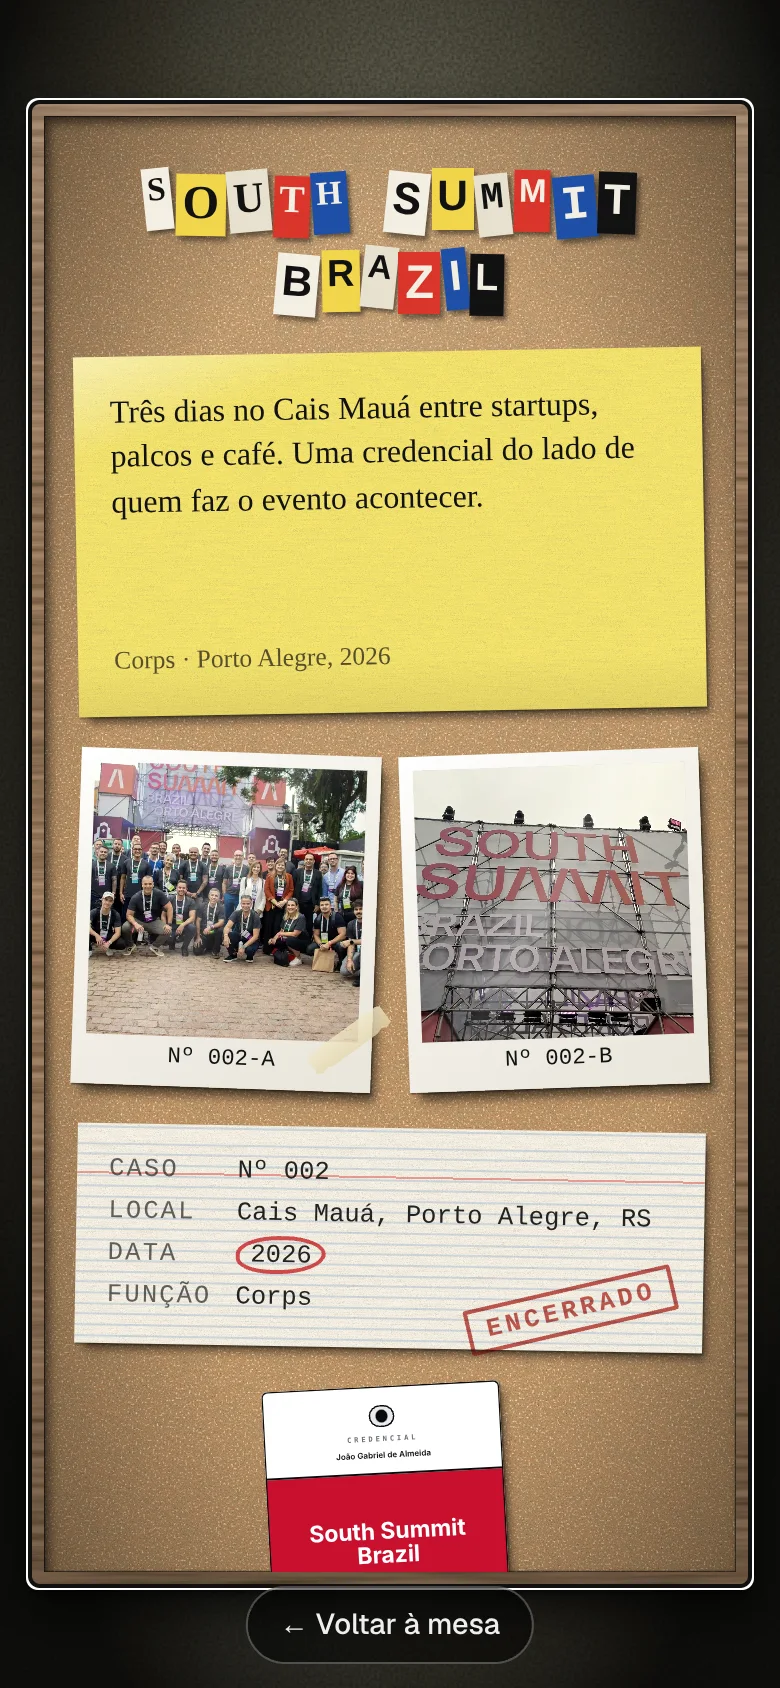
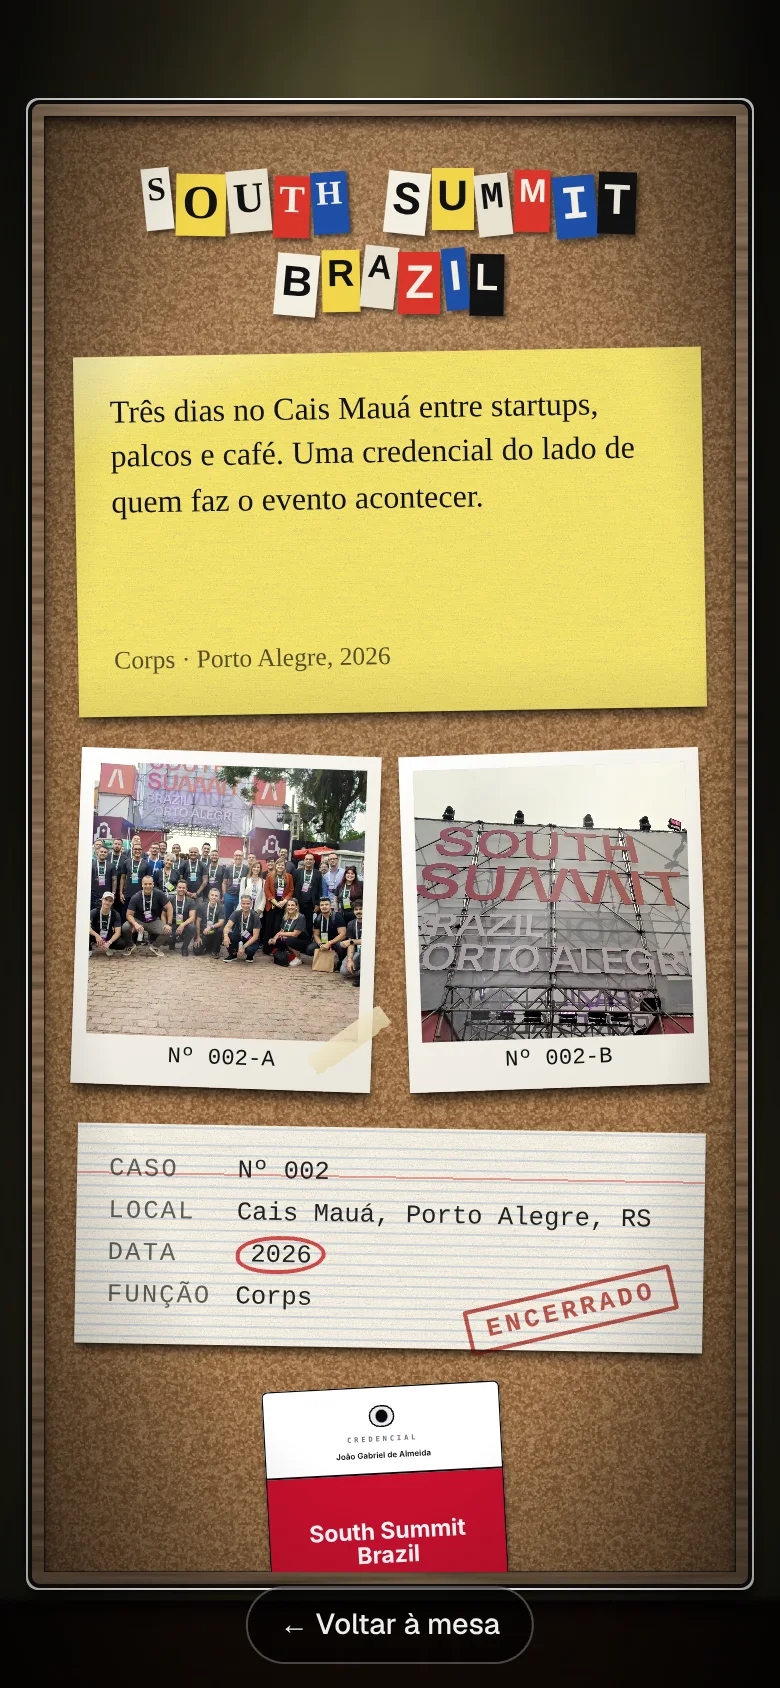
Light the evidence room like the desk: baked light maps and a pendant lamp
- scripts/bake-room.ts computes, once and on the CPU, the same recipe as the desk's light maps
  for each face of the room: aged plaster, walnut floorboards, skirting board, the pendant's
  pool of light with inverse-square falloff and a soft-edged cone, and occlusion where faces
  meet. The CSS box just shows those pictures (26 KB for the five faces).
- An enamel pendant lamp hangs over the board on its cord, with a faint beam of lit dust; a
  lens vignette over the view.
- Cork is pressed granules now (tileable Voronoi with flecks), in a darker stained frame whose
  top edge catches the lamp.
- One light over everything pinned up, so clippings share the cork's falloff; shadows fall
  straight down from the lamp.
- Removed the coffee ring: nobody puts a mug on a cork board.
- The earlier SVG-filter plaster/cork bakes are gone (scripts/textures, two WebPs).

Claude-Session: https://claude.ai/code/session_01DGPQJLkKaiTJNxGHKv36ow

Changed region(s): [[0.0308, 0.0, 0.9846, 1.0]]

diff --git a/components/ui/evidence-board.module.css b/components/ui/evidence-board.module.css
@@ -4,8 +4,6 @@
   position: fixed; inset: 0; width: 100vw; max-width: none; height: 100svh; max-height: none;
   margin: 0; padding: 0; border: 0; overflow: hidden; color: #111;
   background: #050505; perspective: 1000px;
-  /* Baked surfaces (scripts/bake-textures.ts): as inline SVG filters they were re-rasterized while the camera moved. */
-  --plaster: url(/textures/baked/plaster-grain.webp) 0 0 / 200px, url(/textures/baked/plaster-stains.webp) 0 0 / 100% 100% no-repeat;
   animation: fade 1.4s ease both;
 }
 .room::backdrop { background: transparent; }
@@ -21,29 +19,58 @@
 @keyframes dolly { from { transform: translateZ(-1600px) translateX(-20vw) rotateY(-28deg); } }
 @keyframes dolly-out { to { transform: translateZ(-1600px) translateX(-20vw) rotateY(-28deg); } }
 
-.wall, .floor, .ceiling, .side { position: absolute; left: -25vw; width: 150vw; }
+/* Each face of the box shows its light map (scripts/bake-room.ts): material, the pendant's pool of light, the dark
+   where faces meet. Baked once, so a camera move only re-composites pictures. */
+.wall, .floor, .ceiling, .side { position: absolute; left: -25vw; width: 150vw; background: 0 0 / 100% 100% no-repeat; }
 .wall {
   top: -25svh; height: 150svh; transform: translateZ(calc(-1 * var(--depth)));
   display: flex; align-items: center; justify-content: center;
-  /* Pendant lamp above the board: a warm pool that falls off into the corners. */
-  background: radial-gradient(ellipse 55% 50% at 50% 40%, #ffe3b02e, #ffe3b00f 40%, #0000 60%), radial-gradient(ellipse at 50% 42%, #0000 30%, #0006 58%, #000d 85%), var(--plaster), #767461;
+  background-image: url(/textures/baked/room-wall.webp);
 }
 .floor {
   top: 125svh; height: var(--depth); transform-origin: top; transform: translateZ(calc(-1 * var(--depth))) rotateX(90deg);
-  background: linear-gradient(#0008, #000d), repeating-linear-gradient(90deg, #0000 0 11vw, #0c0603 11vw calc(11vw + 3px)),
-    repeating-linear-gradient(90deg, #0000 0 calc(11vw + 3px), #0003 0 calc(22vw + 6px)), url(/textures/baked/walnut.webp) 0 0 / 60vw auto;
+  background-image: url(/textures/baked/room-floor.webp);
 }
 .ceiling {
   top: calc(-25svh - var(--depth)); height: var(--depth); transform-origin: bottom;
   transform: translateZ(calc(-1 * var(--depth))) rotateX(-90deg);
-  background: radial-gradient(circle at 50% 70%, #fff6d8 0 3%, #fff6d833 5%, #0000 9%), radial-gradient(circle at 50% 70%, #0000, #000c 60%), var(--plaster), #2a2a25;
+  background-image: url(/textures/baked/room-ceiling.webp);
 }
-.side {
-  top: -25svh; width: var(--depth); height: 150svh;
-  background: linear-gradient(90deg, #000e, #0007), var(--plaster), #3a3a33;
-}
+/* The left face runs front→back on screen, the right one is flipped by its own transform: the left gets the mirror. */
+.side { top: -25svh; width: var(--depth); height: 150svh; background-image: url(/textures/baked/room-side-left.webp); }
+.side[data-side="right"] { background-image: url(/textures/baked/room-side.webp); }
 .side[data-side="left"] { left: calc(-25vw - var(--depth)); transform-origin: right; transform: translateZ(calc(-1 * var(--depth))) rotateY(90deg); }
 .side[data-side="right"] { left: 125vw; transform-origin: left; transform: translateZ(calc(-1 * var(--depth))) rotateY(-90deg) scaleX(-1); }
+
+/* Enamel pendant lamp hanging over the board (the light the room's maps were baked with), and the faint beam of
+   lit dust under it, leaning back towards the wall. */
+.lamp {
+  position: absolute; left: 50vw; top: 0; width: 240px; height: 120px; transform-style: preserve-3d;
+  transform: translate3d(-50%, -160px, -260px);
+}
+.lamp::before { /* cord up to the ceiling rose */
+  content: ""; position: absolute; left: calc(50% - 1.5px); bottom: 100%; width: 3px; height: 600px;
+  background: linear-gradient(90deg, #050505, #3a3a36 45%, #0a0a0a);
+}
+.shade {
+  position: absolute; inset: 0; border-radius: 50% 50% 8% 8% / 92% 92% 10% 10%;
+  background: radial-gradient(ellipse 60% 70% at 32% 30%, #6f8a76, #2c4234 45%, #121c16 85%);
+  box-shadow: inset 0 -8px 12px #000a, inset 0 3px 3px #ffffff1c;
+}
+.bulb { /* the shade's mouth, seen from below: white enamel inside, the bulb's glare in the middle */
+  position: absolute; left: 1.5%; right: 1.5%; bottom: -16px; height: 32px; border-radius: 50%;
+  background: radial-gradient(ellipse 30% 46% at 50% 42%, #fffef4, #fff3cf 45%, #f0dcab 70%, #b9aa86);
+  box-shadow: 0 0 40px 14px #ffdc9a40, 0 0 120px 40px #ffd38a1c;
+}
+.beam {
+  position: absolute; left: 50%; top: calc(100% + 8px); width: 1500px; height: 1100px; translate: -50% 0;
+  transform-origin: top; transform: rotateX(34deg); pointer-events: none;
+  /* soft-edged cone from the shade's mouth, thinning out as it falls */
+  background: conic-gradient(from 152deg at 50% 0, #ffe8b800, #ffe8b81a 16deg, #ffe8b822 28deg, #ffe8b81a 40deg, #ffe8b800 56deg);
+  -webkit-mask: linear-gradient(#000, #0008 50%, #0000); mask: linear-gradient(#000, #0008 50%, #0000);
+}
+/* Lens vignette over the whole view. */
+.room::after { content: ""; position: fixed; inset: 0; pointer-events: none; background: radial-gradient(ellipse at 50% 45%, #0000 55%, #0007); }
 
 /* ponytail: landscape board; on portrait phones it just shrinks, give it a stacked layout if that's too small. */
 /* Cork in a walnut frame: the frame is the border box's background, the cork the padding box's. Lit from above. */
@@ -54,10 +81,17 @@
     radial-gradient(ellipse 80% 70% at 50% 15%, #fff4dc1c, #0000 70%) padding-box,
     radial-gradient(#0000 60%, #0006) padding-box,
     url(/textures/baked/cork.webp) 0 0 / 22cqi padding-box,
-    linear-gradient(#ffffff1a, #0000 30%, #0000 70%, #0004) border-box,
-    url(/textures/baked/walnut.webp) center / 120cqi auto border-box, #4a2e18;
-  box-shadow: 0 3cqi 6cqi #000b, 0 .6cqi 1cqi #0008,
-    inset 0 0 0 .15cqi #0008, inset .6cqi .8cqi 1.4cqi #0009; /* the cork sits below the frame's lip */
+    linear-gradient(#ffffff24, #0000 12%, #0000 85%, #0007) border-box,
+    linear-gradient(#24130799, #24130799) border-box, /* stained darker than the bare walnut */
+    url(/textures/baked/walnut.webp) center / 120cqi auto border-box, #3a2312;
+  box-shadow: 0 2.4cqi 3cqi #000b, 0 .5cqi .8cqi #0009,
+    inset 0 0 0 .15cqi #0008, inset 0 1cqi 1.4cqi #000a, inset 0 -.2cqi .4cqi #ffffff0d, /* the cork sits below the frame's lip */
+    0 -.12cqi 0 #ffffff1f; /* the frame's top edge catching the lamp */
+}
+/* The lamp's light over everything pinned up, so paper and photos share the cork's falloff instead of glowing flat. */
+.board::after {
+  content: ""; position: absolute; inset: 0; z-index: 2; pointer-events: none;
+  background: radial-gradient(ellipse 80% 95% at 50% -5%, #fff1d014, #0000 45%, #0000004d 85%, #00000073);
 }
 
 .title {
@@ -73,7 +107,7 @@
   display: flex; flex-direction: column; justify-content: space-between;
   background: linear-gradient(160deg, #fff7 0, #fff0 18%), linear-gradient(#0000 85%, #0001), url(/textures/baked/paper.webp) 0 0 / 20cqi, #f7e66b; transform: rotate(-4deg);
   font: 1.45cqi/1.35 "Comic Sans MS", "Bradley Hand", cursive;
-  box-shadow: .15cqi .25cqi .3cqi #0006, 1cqi 1.6cqi 1.4cqi -.6cqi #0008; /* the free bottom edge curls off the cork */
+  box-shadow: 0 .25cqi .3cqi #0006, .2cqi 1.8cqi 1.4cqi -.6cqi #0008; /* the free bottom edge curls off the cork */
 }
 .note p { margin: 0; }
 .note small { font-size: 1.1cqi; opacity: .7; }
@@ -81,7 +115,7 @@
 .polaroid {
   position: absolute; width: 22%; margin: 0; padding: 1.1% 1.1% 0;
   background: linear-gradient(150deg, #fff 0, #f5f3ec 30%, #e9e5da), url(/textures/baked/paper.webp) 0 0 / 20cqi;
-  box-shadow: .15cqi .25cqi .3cqi #0007, 1.2cqi 1.8cqi 1.6cqi -.5cqi #0009; transform: rotate(5deg);
+  box-shadow: 0 .25cqi .3cqi #0007, .25cqi 2cqi 1.6cqi -.5cqi #0009; transform: rotate(5deg);
 }
 /* Gloss of the print, and the slight sheen of light along the top. */
 .polaroid::after {
@@ -102,20 +136,13 @@
 .threads { position: absolute; inset: 0; width: 100%; height: 100%; overflow: visible; pointer-events: none; }
 .threads path { fill: none; stroke: #b5161a; stroke-width: 2.6; stroke-linecap: round; vector-effect: non-scaling-stroke; }
 /* A path shadow instead of a drop-shadow filter: no filter pass when the camera dollies. */
-.threads .threadShadow { stroke: #0007; stroke-width: 3; transform: translate(.35px, .9px); }
+.threads .threadShadow { stroke: #0007; stroke-width: 3; transform: translate(.05px, 1.1px); }
 .threads .twist { stroke: #ff6f6f66; stroke-width: 1.1; stroke-dasharray: 2 3; }
 /* Push pin: domed head, a highlight, and the long shadow its height throws on the cork. */
 .pin {
   position: absolute; width: 1.5cqi; aspect-ratio: 1; border-radius: 50%; transform: translate(-50%, -50%);
   background: radial-gradient(circle at 34% 30%, #ffd0d0 0 8%, #ff7a7a 18%, #c4161a 52%, #6e0608 80%);
-  box-shadow: inset -.15cqi -.2cqi .3cqi #0006, .1cqi .15cqi .1cqi #0008, .45cqi .6cqi .35cqi #0006, .9cqi 1.2cqi .7cqi #0003;
-}
-
-/* Coffee ring someone left on the cork. */
-.stain {
-  position: absolute; left: 10%; top: 13%; width: 9%; aspect-ratio: 1; border-radius: 50%; pointer-events: none;
-  background: radial-gradient(closest-side, #5a2e1012 0 80%, #5a2e1066 88%, #5a2e1022 94%, #0000); rotate: 20deg;
-  -webkit-mask: conic-gradient(#000 0 300deg, #0000 330deg); mask: conic-gradient(#000 0 300deg, #0000 330deg);
+  box-shadow: inset 0 -.25cqi .3cqi #0006, 0 .15cqi .1cqi #0008, .05cqi .75cqi .35cqi #0006, .1cqi 1.5cqi .7cqi #0003;
 }
 
 /* Typed index card: ruled, red header line, a rubber stamp across it. */
@@ -125,7 +152,7 @@
     repeating-linear-gradient(#0000 0 calc(1.7cqi - 1px), #6a8fc644 calc(1.7cqi - 1px) 1.7cqi) 0 calc(22% + 1.7cqi),
     url(/textures/baked/paper.webp) 0 0 / 20cqi, #f7f3e6;
   font: 1.15cqi/1.48 "Courier New", Courier, monospace; color: #222; transform: rotate(3deg);
-  box-shadow: .15cqi .25cqi .3cqi #0006, 1cqi 1.4cqi 1.4cqi -.5cqi #0008;
+  box-shadow: 0 .25cqi .3cqi #0006, .2cqi 1.6cqi 1.4cqi -.5cqi #0008;
 }
 .card dl { display: grid; grid-template-columns: auto 1fr; gap: .25cqi 1cqi; margin: 0; }
 .card dt { text-transform: uppercase; letter-spacing: .08em; opacity: .7; }
@@ -140,7 +167,7 @@
 /* The event's own badge, pinned up as evidence. */
 .badge {
   position: absolute; left: 76%; top: 15%; width: 9%; height: auto; border-radius: .3cqi; transform: rotate(-7deg);
-  box-shadow: .15cqi .25cqi .3cqi #0007, .9cqi 1.3cqi 1.4cqi -.4cqi #0008;
+  box-shadow: 0 .25cqi .3cqi #0007, .15cqi 1.4cqi 1.4cqi -.4cqi #0008;
 }
 
 .back {
@@ -175,7 +202,8 @@
   .circled { border-width: 2px; }
   .closed { font-size: .8rem; border-width: 2px; padding: 2px 8px; }
   .badge { position: static; grid-column: 1 / -1; justify-self: center; width: 38%; transform: rotate(-3deg); }
-  .threads, .pin, .stain { display: none; }
+  .threads, .pin, .lamp { display: none; }
+  .board::after { display: none; } /* the stacked board scrolls; a fixed light over its first screen would slide away */
   .back { z-index: 1; top: auto; bottom: max(12px, env(safe-area-inset-bottom)); left: 50%; translate: -50% 0; white-space: nowrap; }
 }
 

diff --git a/scripts/bake-room.ts b/scripts/bake-room.ts
@@ -1,0 +1,114 @@
+import sharp from "sharp";
+
+// Light maps for the evidence room (components/ui/evidence-board.module.css), computed on the CPU once: the same
+// recipe as the desk's WebGL light maps (desk-shaders.ts). The room is an open CSS 3D box; each face gets an image
+// with its material and the pendant lamp's light already in it, so the browser only draws pictures.
+//
+// Room space is CSS px for a 1440×900 viewport (the camera's z = 0 plane), y down, z towards the viewer:
+// back wall x ∈ [-360, 1800], y ∈ [-225, 1125] at z = -700; floor y = 1125; ceiling y = -225; sides x = -360 / 1800.
+const D = 700, X0 = -360, X1 = 1800, Y0 = -225, Y1 = 1125;
+// Pendant lamp hanging over the board, shade opening at LAMP, aimed down and back at the board.
+const LAMP = [720, -40, -260] as const;
+const AIM = norm([0, 1, -0.62]);
+const out = new URL("../public/textures/baked/", import.meta.url);
+
+type V3 = [number, number, number];
+function norm(v: readonly number[]): V3 { const l = Math.hypot(...v); return [v[0] / l, v[1] / l, v[2] / l]; }
+const clamp = (x: number, a = 0, b = 1) => Math.max(a, Math.min(b, x));
+const smooth = (a: number, b: number, x: number) => { const t = clamp((x - a) / (b - a)); return t * t * (3 - 2 * t); };
+const mix = (a: number, b: number, t: number) => a + (b - a) * t;
+const hex = (h: string): V3 => [1, 3, 5].map((i) => parseInt(h.slice(i, i + 2), 16) / 255) as V3;
+
+// Value noise and fbm, same shape as the GLSL one.
+function hash(x: number, y: number) { const s = Math.sin(x * 127.1 + y * 311.7) * 43758.5453; return s - Math.floor(s); }
+function noise(x: number, y: number) {
+  const ix = Math.floor(x), iy = Math.floor(y), fx = x - ix, fy = y - iy, ux = fx * fx * (3 - 2 * fx), uy = fy * fy * (3 - 2 * fy);
+  return mix(mix(hash(ix, iy), hash(ix + 1, iy), ux), mix(hash(ix, iy + 1), hash(ix + 1, iy + 1), ux), uy);
+}
+function fbm(x: number, y: number, o = 5) { let s = 0, a = 0.5; for (let i = 0; i < o; i++) { s += a * noise(x, y); x = x * 2.03 + 17.1; y = y * 2.03 + 9.2; a *= 0.5; } return s; }
+
+// Lamp: a spot with a soft edge and inverse-square falloff, plus a dim bounce from the lit board and floor.
+function light(p: V3, n: V3): number {
+  const l = [LAMP[0] - p[0], LAMP[1] - p[1], LAMP[2] - p[2]], d2 = l[0] ** 2 + l[1] ** 2 + l[2] ** 2, d = Math.sqrt(d2);
+  const L: V3 = [l[0] / d, l[1] / d, l[2] / d];
+  const ndl = Math.max(0, n[0] * L[0] + n[1] * L[1] + n[2] * L[2]);
+  const cone = smooth(Math.cos(62 * Math.PI / 180), Math.cos(26 * Math.PI / 180), -(L[0] * AIM[0] + L[1] * AIM[1] + L[2] * AIM[2]));
+  const spill = 0.12; // the shade leaks a little light sideways
+  return 1.7 * 9e5 / (d2 + 2e5) * ndl * (spill + (1 - spill) * cone);
+}
+// Ambient occlusion where two faces of the box meet: distances (px) to the neighbouring edges.
+const ao = (...dist: number[]) => dist.reduce((a, x) => a * (0.45 + 0.55 * smooth(0, 260, x)), 1);
+const tone = (x: number) => Math.sqrt(clamp((x * (2.51 * x + 0.03)) / (x * (2.43 * x + 0.59) + 0.14)));
+
+async function bake(name: string, w: number, h: number, at: (u: number, v: number) => { p: V3; n: V3; albedo: V3; occl: number }) {
+  const px = Buffer.alloc(w * h * 3);
+  for (let j = 0; j < h; j++)
+    for (let i = 0; i < w; i++) {
+      const { p, n, albedo, occl } = at((i + 0.5) / w, (j + 0.5) / h);
+      const amb = 0.075 * occl, lit = light(p, n) * (0.55 + 0.45 * occl);
+      for (let c = 0; c < 3; c++) px[(j * w + i) * 3 + c] = Math.round(255 * tone(albedo[c] ** 2 * (amb + lit) * [1, 0.86, 0.7][c] ** 0.5));
+    }
+  await sharp(px, { raw: { width: w, height: h, channels: 3 } }).webp({ quality: 86, effort: 5 }).toFile(new URL(`${name}.webp`, out).pathname);
+}
+
+// Aged plaster, a greenish institutional grey, with damp stains, trowel marks and fine grain.
+function plaster(x: number, y: number): V3 {
+  const base = hex("#78765f"), stain = fbm(x * 0.0022, y * 0.0022), trowel = fbm(x * 0.012 + y * 0.004, y * 0.012, 3), grain = noise(x * 0.9, y * 0.9);
+  const k = 1 - 0.1 * smooth(0.5, 0.78, stain) - 0.08 * (trowel - 0.5) - 0.06 * (grain - 0.5);
+  return [base[0] * k, base[1] * k * 1.01, base[2] * k * 0.98];
+}
+// Dark walnut floorboards running into the room.
+function boards(x: number, z: number): V3 {
+  const w = 150, b = Math.floor(x / w), s = hash(b, 3), seam = Math.min(x - b * w, (b + 1) * w - x);
+  const joint = Math.floor((z + s * 900) / 900), js = hash(b, joint);
+  const grain = fbm(x * 0.03 + s * 50, z * 0.0025 + js * 9, 4), ring = Math.sin((x - b * w) * 0.25 + grain * 9 + js * 6) * 0.5 + 0.5;
+  const base = hex("#4a3324"), k = (0.82 + 0.3 * js) * (0.86 + 0.22 * grain) * (0.94 + 0.08 * ring);
+  const along = (((z + s * 900) % 900) + 900) % 900, gap = 0.35 + 0.65 * smooth(0, 2.2, seam) * smooth(0, 2.2, Math.min(along, 900 - along));
+  return [base[0] * k * gap, base[1] * k * gap, base[2] * k * gap];
+}
+
+// Back wall, with a stained-wood skirting board along the floor.
+await bake("room-wall", 1600, 1000, (u, v) => {
+  const x = mix(X0, X1, u), y = mix(Y0, Y1, v), skirting = Y1 - y < 70;
+  const albedo: V3 = skirting ? (Y1 - y > 64 ? hex("#2a1c13") : hex("#3a271a")).map((c) => c * (0.9 + 0.2 * fbm(x * 0.02, y * 0.3, 3))) as V3 : plaster(x, y);
+  return { p: [x, y, -D], n: [0, 0, 1], albedo, occl: ao(x - X0, X1 - x, y - Y0, Y1 - y) * (skirting ? 1 : 1 - 0.35 * smooth(0, 14, 14 - (Y1 - 70 - y))) };
+});
+await bake("room-floor", 1600, 520, (u, v) => {
+  const x = mix(X0, X1, u), z = mix(-D, 0, v);
+  return { p: [x, Y1, z], n: [0, -1, 0], albedo: boards(x - X0, z), occl: ao(x - X0, X1 - x, z + D) };
+});
+await bake("room-ceiling", 1600, 520, (u, v) => {
+  const x = mix(X0, X1, u), z = mix(-D, 0, v), rose = Math.hypot(x - LAMP[0], z - LAMP[2]);
+  const albedo = plaster(x + 3000, z).map((c) => c * 0.75) as V3;
+  const disc = rose < 34 ? 0.6 : 1; // ceiling rose the lamp hangs from
+  return { p: [x, Y0, z], n: [0, 1, 0], albedo: albedo.map((c) => c * disc) as V3, occl: ao(x - X0, X1 - x, z + D) };
+});
+await bake("room-side", 520, 1000, (u, v) => {
+  const z = mix(-D, 0, u), y = mix(Y0, Y1, v), skirting = Y1 - y < 70;
+  const albedo: V3 = skirting ? hex("#2f2016") : plaster(z + 7000, y);
+  return { p: [X0, y, z], n: [1, 0, 0], albedo, occl: ao(z + D, y - Y0, Y1 - y) };
+});
+
+// The left wall is the right one seen in a mirror (the lamp hangs on the room's axis); CSS lays it out flipped.
+await sharp(new URL("room-side.webp", out).pathname).flop().webp({ quality: 86, effort: 5 }).toFile(new URL("room-side-left.webp", out).pathname);
+
+// Cork: pressed granules of different sizes and shades, a tileable jittered-grid Voronoi (one seed per grid cell,
+// so each pixel checks only its 3×3 neighbourhood), each granule lit as a little bump, with dark flecks.
+{
+  const S = 512, G = 72, cell = S / G, px = Buffer.alloc(S * S * 3), light = hex("#c99d6c"), dark = hex("#8f5f37");
+  const seed = (gx: number, gy: number) => { const x = ((gx % G) + G) % G, y = ((gy % G) + G) % G; return [gx * cell + hash(x, y + 0.5) * cell, gy * cell + hash(x + 0.5, y) * cell, hash(x * 1.3, y * 7.7)]; };
+  for (let j = 0; j < S; j++)
+    for (let i = 0; i < S; i++) {
+      const gx = Math.floor(i / cell), gy = Math.floor(j / cell);
+      let d1 = 1e9, d2 = 1e9, t = 0;
+      for (let oy = -1; oy <= 1; oy++) for (let ox = -1; ox <= 1; ox++) {
+        const [x, y, k] = seed(gx + ox, gy + oy), d = Math.hypot(i - x, j - y);
+        if (d < d1) { d2 = d1; d1 = d; t = k; } else if (d < d2) d2 = d;
+      }
+      const edge = smooth(0, 1.4, d2 - d1), bump = 1 - 0.12 * clamp(d1 / cell);
+      const fleck = hash(i * 7.1, j * 3.3) > 0.975 ? 0.55 : 1;
+      for (let c = 0; c < 3; c++) px[(j * S + i) * 3 + c] = Math.round(255 * clamp(mix(dark[c], light[c], t) * (0.86 + 0.14 * edge) * bump * fleck * (0.94 + 0.12 * hash(i, j))));
+    }
+  await sharp(px, { raw: { width: S, height: S, channels: 3 } }).webp({ quality: 84, effort: 5 }).toFile(new URL("cork.webp", out).pathname);
+}
+console.log("Baked the evidence room light maps and cork.");

diff --git a/components/ui/evidence-board.tsx b/components/ui/evidence-board.tsx
@@ -67,6 +67,11 @@ export default function EvidenceBoard({ event, onClose }: { event: Event; onClos
         <div className={styles.floor} />
         <div className={styles.side} data-side="left" />
         <div className={styles.side} data-side="right" />
+        <div className={styles.lamp} aria-hidden="true">
+          <span className={styles.beam} />
+          <span className={styles.shade} />
+          <span className={styles.bulb} />
+        </div>
         <div className={styles.wall}>
           <div className={styles.board}>
             <Cutouts text={event.name} />
@@ -74,7 +79,6 @@ export default function EvidenceBoard({ event, onClose }: { event: Event; onClos
               <p>{event.note}</p>
               <small>{event.role} · {event.place}, {event.year}</small>
             </div>
-            <span className={styles.stain} aria-hidden="true" />
             {event.images.map((src, i) => (
               <figure key={src} className={styles.polaroid} data-photo={i}>
                 <Image src={src} alt={`${event.name}, foto ${i + 1}`} width={480} height={480} />

diff --git a/scripts/bake-textures.ts b/scripts/bake-textures.ts
@@ -32,14 +32,8 @@ for (const [name, layer, width, height] of [
   await sharp(Buffer.from(svg), { density: 72 }).webp({ quality: 90, effort: 5 })
     .toFile(new URL(`${name}.webp`, output).pathname);
 }
-// Evidence room surfaces, drawn as SVG filters in scripts/textures. As CSS backgrounds they were re-rasterized
-// whenever the room's camera moved; as images they decode once.
-for (const [name, width, height] of [["plaster-grain", 256, 256], ["plaster-stains", 512, 512], ["cork", 600, 600]] as const) {
-  await sharp(new URL(`textures/${name}.svg`, import.meta.url).pathname, { density: 144 }).resize(width, height)
-    .webp({ quality: 88, effort: 5 }).toFile(new URL(`${name}.webp`, output).pathname);
-}
 await sharp(new URL("../public/textures/holo-foil.svg", import.meta.url).pathname, { density: 144 })
   .resize(1024, 640)
   .webp({ quality: 90, effort: 5 })
   .toFile(new URL("holo-foil.webp", output).pathname);
-console.log("Baked 11 surface textures.");
+console.log("Baked 8 surface textures (the evidence room has its own: scripts/bake-room.ts).");
